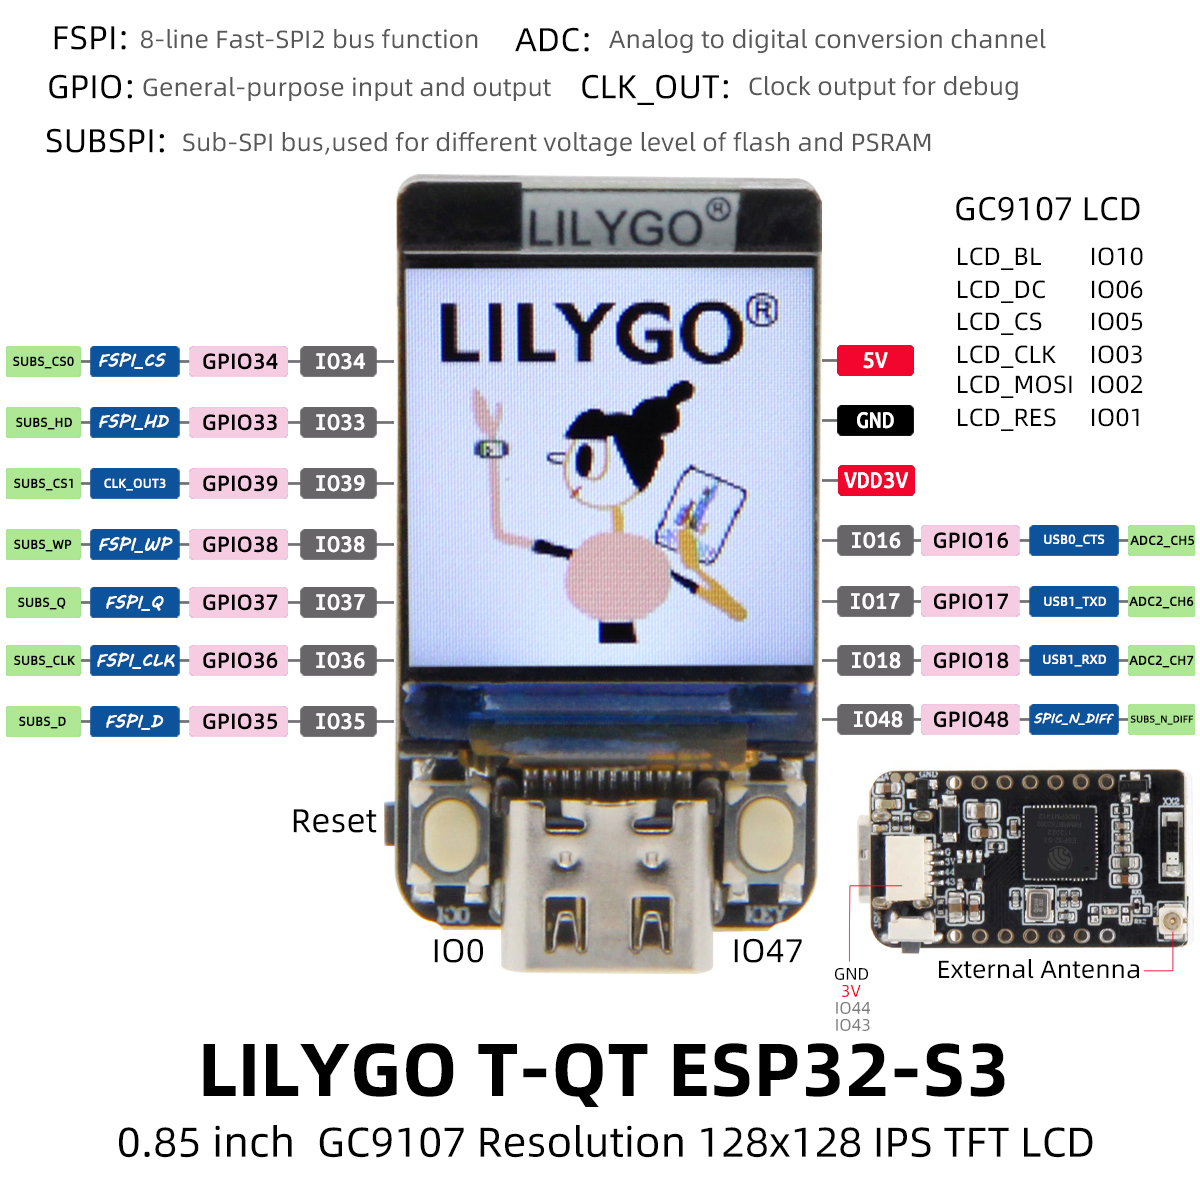
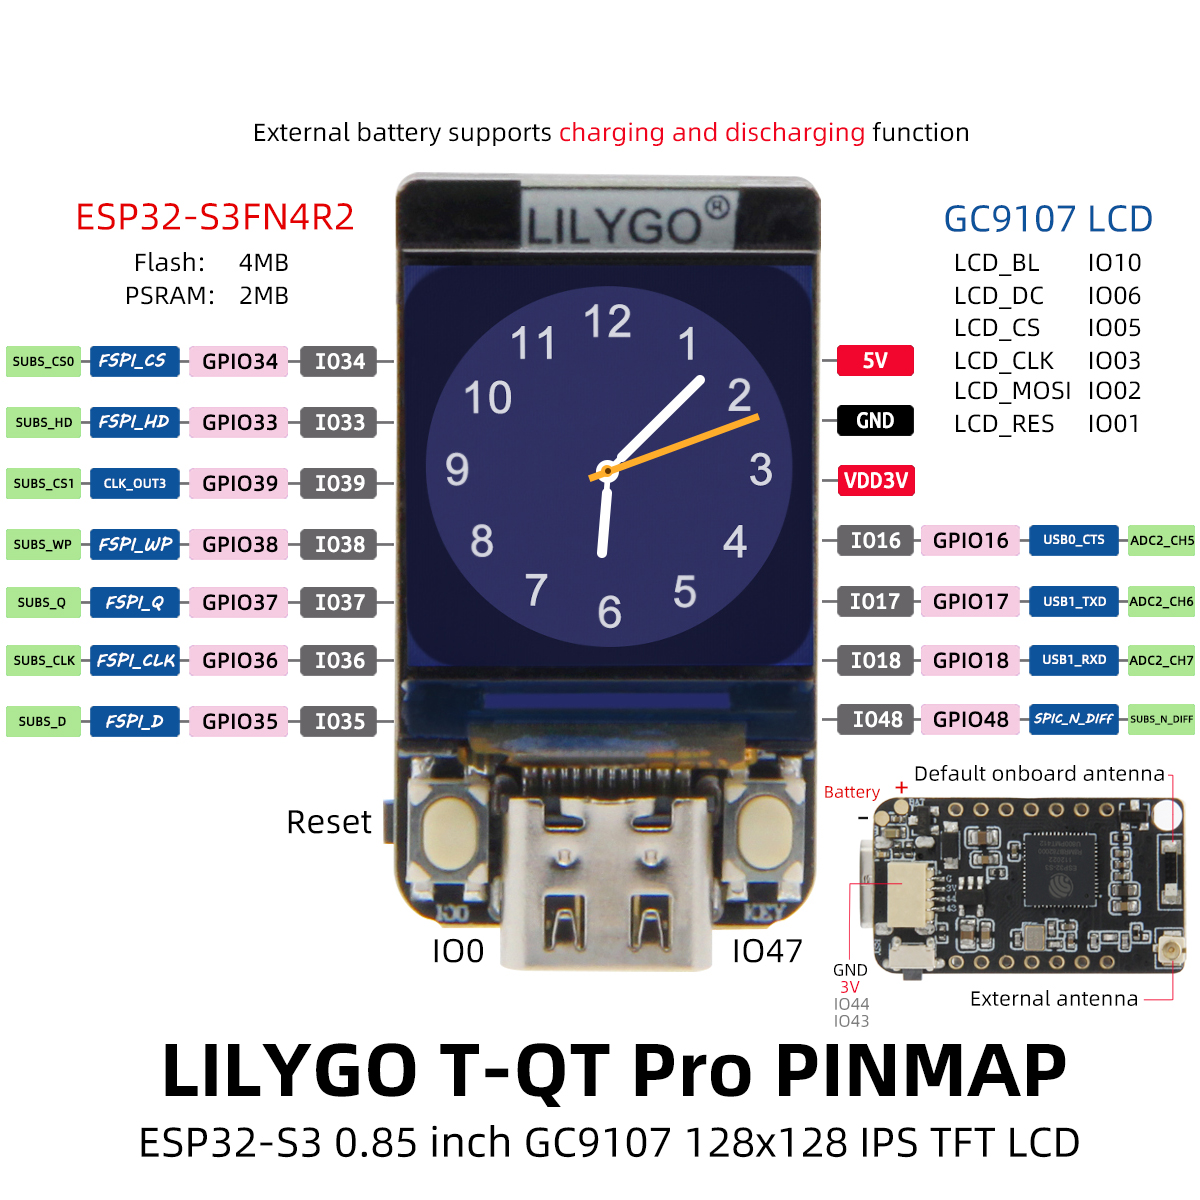
Update README

diff --git a/README.md b/README.md
@@ -1,7 +1,5 @@
 <h1 align = "center"> 🌟T-QT🌟</h1>
 
-<img  width="480" src=image/logo.png>
-
 ## Description
 
 T-QT is a development board whose main control chip is ESP32-S3. It is equipped with a 0.85-inch LCD color screen and two programmable buttons. Retains the same layout design as T-Display. You can directly use ESP32S3 for USB communication or programming.
@@ -9,15 +7,18 @@ T-QT is a development board whose main control chip is ESP32-S3. It is equipped 
 ***
 ## Pinmap
 
+!!! There are currently two chip versions, using ESP32S3-FN4R2 (4MB Flash, 2MB PSRAM) and ESP32S3-N8 (8MB Flash, No PSRAM), the following only shows the pin diagram of N4R2, and the pin diagram of N8 is the same.
+
 <img  width="480" src=image/pinmap_en.jpg>
+<img  width="480" src=image/specifications_en.jpg>
 
 ***
 <h3 align = "left">Product 📷:</h3>
 
-| Product |                            Product Link                             |
-| :-----: | :-----------------------------------------------------------------: |
-|  T-QT   | [AliExpress](https://www.aliexpress.com/item/1005004405292321.html) |
-
+| Product  |                            Product Link                             |
+| :------: | :-----------------------------------------------------------------: |
+| T-QT Pro | [AliExpress](https://www.aliexpress.com/item/1005004405292321.html) |
+| T-QT Pro |          [LilyGo](https://www.lilygo.cc/products/t-qt-pro)          |
 
 ***
 ## Quick Start
@@ -49,12 +50,17 @@ T-QT is a development board whose main control chip is ESP32-S3. It is equipped 
 
 ***
 ## Quick question and answer
+
 1. Does the onboard lithium battery charge function?
-> T-QT does not have the function of charging lithium batteries, but it can support the access of lithium batteries at that time. The battery voltage status can be detected using IO4. 
+   - The old version T-QT does not support charging
+   - The version on sale T-QT Pro supports charging function
+
 2. Is it normal for the chip to continue to heat up during use?
-> The ESP32S3 will continue to heat up during use. Due to the small size of the baseboard, the heat of the ESP32S3 cannot be dissipated in time, so the overall temperature is stable at about 50-60 degrees Celsius. This temperature does not affect the normal use of the chip.
+   - The ESP32S3 will continue to heat up during use. Due to the small size of the baseboard, the heat of the ESP32S3 cannot be dissipated in time, so the overall temperature is stable at about 50-60 degrees Celsius. This temperature does not affect the normal use of the chip.
+
+
 3. Unable to write?
-> Press and hold the BOOT button on the board (located on the left side of the front of the screen), keep it tight, then plug in the USB and click to upload the sketch
+   -  Press and hold the BOOT button on the board (located on the left side of the front of the screen), keep it tight, then plug in the USB and click to upload the sketch
 
 ## Tips
 
